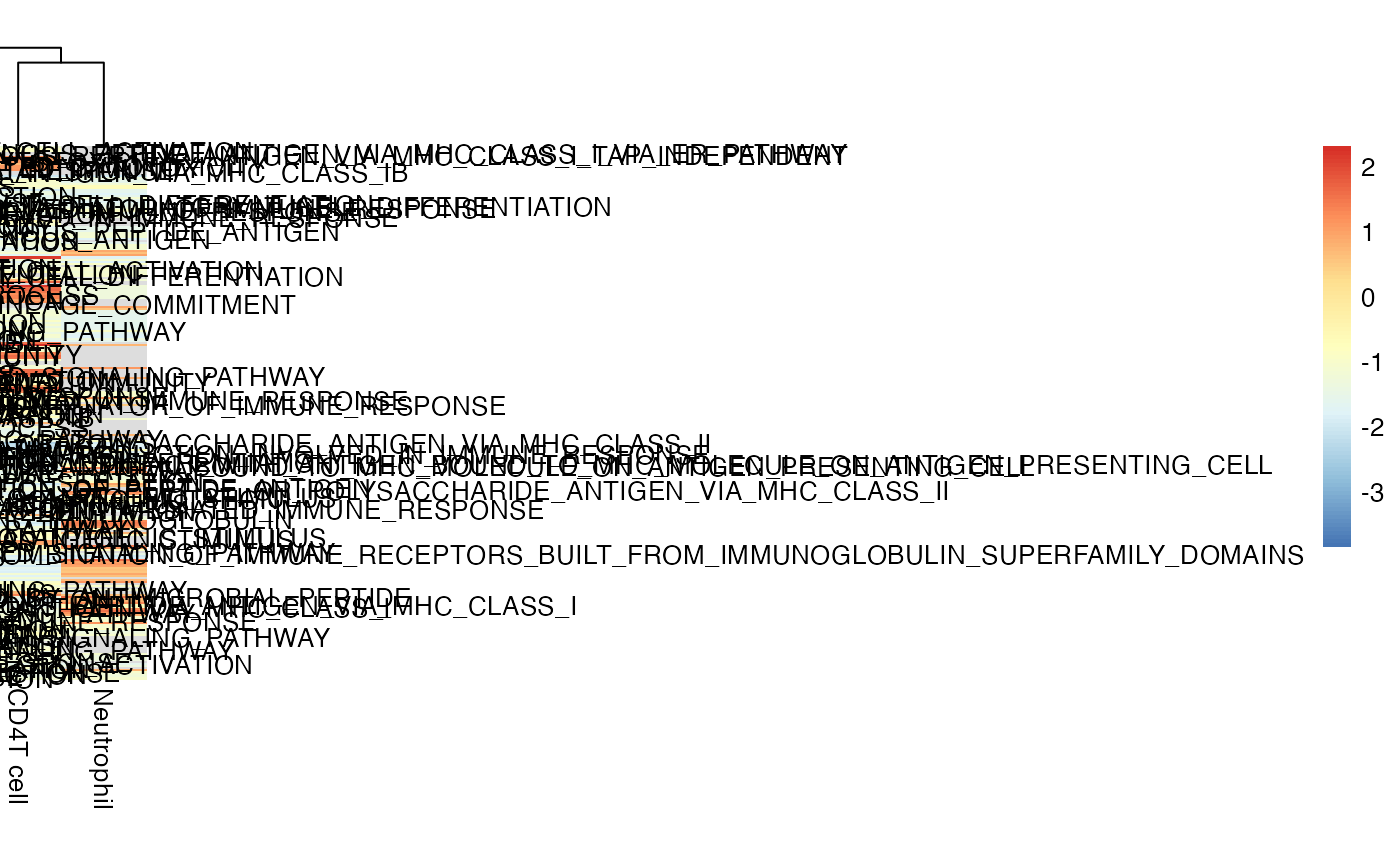
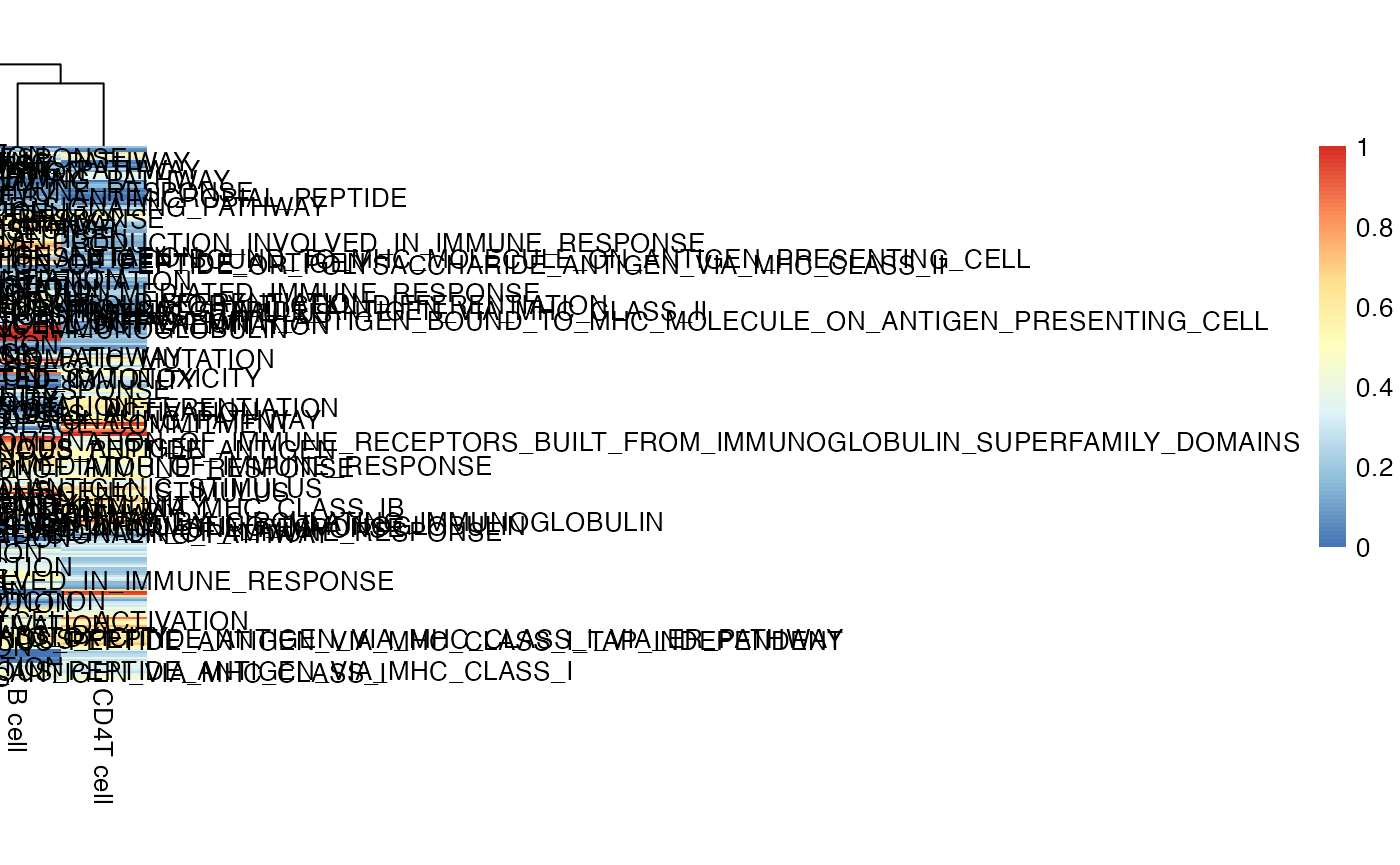
Built site for bowerbird: 0.0.2@786c6df

Changed region(s): [[0.0, 0.1561, 1.0, 0.9364], [0.0, 0.0312, 0.0614, 0.1249]]

diff --git a/articles/bowerbird_vignette.html b/articles/bowerbird_vignette.html
@@ -105,71 +105,190 @@
 <h2 class="hasAnchor">
 <a href="#quick-usage" class="anchor"></a>Quick Usage</h2>
 <p>Pathway analyis is tricky; often there’s too many pathways/terms to use and it’s not easy to distinguish how important every element is. <code>bowerbird</code> attempts to summarise your pathways of interests into potentially meaningful functional annotation modules which you can then take forward to pathway analyses, or the reverse situation where you have a set of pathways that were determined <i>a priori</i> to be significant and you wanted to find out how to interpret it. To do this, we compute a shortest nearest neighbor graph using the genes in the gene sets/pathways and learn a representative summary term from the name of the gene sets that cluster together.</p>
-<pre><code>#&gt; Loading required namespace: S4Vectors
-#&gt; Loading required namespace: FNN
-#&gt; Loading required namespace: ggraph
-#&gt; Downloading udpipe model from https://raw.githubusercontent.com/jwijffels/udpipe.models.ud.2.5/master/inst/udpipe-ud-2.5-191206/english-ewt-ud-2.5-191206.udpipe to /var/folders/24/8k48jl6d249_n_qfxwsl6xvm0000gn/T//RtmpKCjwGc/english-ewt-ud-2.5-191206.udpipe
-#&gt;  - This model has been trained on version 2.5 of data from https://universaldependencies.org
-#&gt;  - The model is distributed under the CC-BY-SA-NC license: https://creativecommons.org/licenses/by-nc-sa/4.0
-#&gt;  - Visit https://github.com/jwijffels/udpipe.models.ud.2.5 for model license details.
-#&gt;  - For a list of all models and their licenses (most models you can download with this package have either a CC-BY-SA or a CC-BY-SA-NC license) read the documentation at ?udpipe_download_model. For building your own models: visit the documentation by typing vignette('udpipe-train', package = 'udpipe')
-#&gt; Downloading finished, model stored at '/var/folders/24/8k48jl6d249_n_qfxwsl6xvm0000gn/T//RtmpKCjwGc/english-ewt-ud-2.5-191206.udpipe'
-#&gt; BOWER class
-#&gt; number of genesets:  50 
-#&gt; genesets kNN Graph: 
-#&gt; IGRAPH cc22994 UNW- 50 124 -- 
-#&gt; + attr: name (v/c), cluster (v/n), geneset_size (v/n), terms (v/c),
-#&gt; | labels (v/c), weight (e/n)
-#&gt; + edges from cc22994 (vertex names):
-#&gt; [1] HALLMARK_TNFA_SIGNALING_VIA_NFKB--HALLMARK_HYPOXIA                
-#&gt; [2] HALLMARK_TNFA_SIGNALING_VIA_NFKB--HALLMARK_TGF_BETA_SIGNALING     
-#&gt; [3] HALLMARK_TNFA_SIGNALING_VIA_NFKB--HALLMARK_IL6_JAK_STAT3_SIGNALING
-#&gt; [4] HALLMARK_TNFA_SIGNALING_VIA_NFKB--HALLMARK_APOPTOSIS              
-#&gt; [5] HALLMARK_TNFA_SIGNALING_VIA_NFKB--HALLMARK_MYOGENESIS             
-#&gt; [6] HALLMARK_TNFA_SIGNALING_VIA_NFKB--HALLMARK_COMPLEMENT             
-#&gt; + ... omitted several edges
-#&gt; number of geneset clusters:  9 
-#&gt; Core genes:
-#&gt;  First six genes shown
-#&gt;   XENOBIOTIC METABOLISM : LIFR DNAJB9 CD36 ACOX1 IDH1 ECH1 ...
-#&gt;   E2F TARGETS : SAC3D1 KIF11 KIF23 RACGAP1 NUMA1 KIF2C ...
-#&gt;   ESTROGEN RESPONSE EARLY : JAG1 CTNNB1 GNAI1 FDFT1 DHCR7 FASN ...
-#&gt;   APOPTOSIS : SPTAN1 CDKN1A GSN GPX3 CLU GADD45B ...
-#&gt;   INTERFERON ALPHA RESPONSE : MX1 ISG15 IFIT3 IFI44 IFI35 IRF7 ...
-#&gt;   HEDGEHOG SIGNALING : VEGFA VLDLR MYH9 ERO1A DDIT4 STC2 ...
-#&gt;   IL2 STAT5 SIGNALING : JUNB PPP1R15A SERPINE1 ID2 IFNGR2 PMEPA1 ...
-#&gt;   APICAL JUNCTION : EGFR ADAM10 CLTC AP2M1 ARF1 MAPK1 ...
-#&gt;   EPITHELIAL MESENCHYMAL TRANSITION : FBN1 FN1 SERPINE1 SPARC MMP2 THBS1 ...</code></pre>
+<div class="sourceCode" id="cb2"><pre class="downlit sourceCode r">
+<code class="sourceCode R"><span class="kw"><a href="https://rdrr.io/r/base/library.html">library</a></span><span class="op">(</span><span class="va">bowerbird</span><span class="op">)</span>
+<span class="co"># download from msigdb website</span>
+<span class="va">gmt_file</span> <span class="op">&lt;-</span> <span class="fu"><a href="https://rdrr.io/r/base/system.file.html">system.file</a></span><span class="op">(</span><span class="st">"extdata"</span>, <span class="st">"h.all.v7.4.symbols.gmt"</span>, package <span class="op">=</span> <span class="st">"bowerbird"</span><span class="op">)</span>
+<span class="va">bwr</span> <span class="op">&lt;-</span> <span class="fu">bower</span><span class="op">(</span><span class="va">gmt_file</span><span class="op">)</span> <span class="co"># this performs a read_geneset step internally, which accepts .gmt, .gmx, .csv, .tsv, .txt, or R objects as list or data.frame format.</span>
+<span class="co">#&gt; Loading required namespace: S4Vectors</span>
+<span class="va">bwr</span> <span class="op">&lt;-</span> <span class="fu"><a href="../reference/snn_graph.html">snn_graph</a></span><span class="op">(</span><span class="va">bwr</span><span class="op">)</span>
+<span class="co">#&gt; Loading required namespace: FNN</span>
+<span class="va">bwr</span> <span class="op">&lt;-</span> <span class="fu"><a href="../reference/find_clusters.html">find_clusters</a></span><span class="op">(</span><span class="va">bwr</span><span class="op">)</span>
+<span class="co">#&gt; Loading required namespace: ggraph</span>
+<span class="va">bwr</span> <span class="op">&lt;-</span> <span class="fu"><a href="../reference/summarize_clusters.html">summarize_clusters</a></span><span class="op">(</span><span class="va">bwr</span><span class="op">)</span>
+<span class="co">#&gt; Downloading udpipe model from https://raw.githubusercontent.com/jwijffels/udpipe.models.ud.2.5/master/inst/udpipe-ud-2.5-191206/english-ewt-ud-2.5-191206.udpipe to /var/folders/24/8k48jl6d249_n_qfxwsl6xvm0000gn/T//RtmpSF7iOg/english-ewt-ud-2.5-191206.udpipe</span>
+<span class="co">#&gt;  - This model has been trained on version 2.5 of data from https://universaldependencies.org</span>
+<span class="co">#&gt;  - The model is distributed under the CC-BY-SA-NC license: https://creativecommons.org/licenses/by-nc-sa/4.0</span>
+<span class="co">#&gt;  - Visit https://github.com/jwijffels/udpipe.models.ud.2.5 for model license details.</span>
+<span class="co">#&gt;  - For a list of all models and their licenses (most models you can download with this package have either a CC-BY-SA or a CC-BY-SA-NC license) read the documentation at ?udpipe_download_model. For building your own models: visit the documentation by typing vignette('udpipe-train', package = 'udpipe')</span>
+<span class="co">#&gt; Downloading finished, model stored at '/var/folders/24/8k48jl6d249_n_qfxwsl6xvm0000gn/T//RtmpSF7iOg/english-ewt-ud-2.5-191206.udpipe'</span>
+<span class="va">bwr</span>
+<span class="co">#&gt; BOWER class</span>
+<span class="co">#&gt; number of genesets:  50 </span>
+<span class="co">#&gt; genesets kNN Graph: </span>
+<span class="co">#&gt; IGRAPH c97b968 UNW- 50 124 -- </span>
+<span class="co">#&gt; + attr: name (v/c), cluster (v/n), geneset_size (v/n), terms (v/c),</span>
+<span class="co">#&gt; | labels (v/c), weight (e/n)</span>
+<span class="co">#&gt; + edges from c97b968 (vertex names):</span>
+<span class="co">#&gt; [1] HALLMARK_TNFA_SIGNALING_VIA_NFKB--HALLMARK_HYPOXIA                </span>
+<span class="co">#&gt; [2] HALLMARK_TNFA_SIGNALING_VIA_NFKB--HALLMARK_TGF_BETA_SIGNALING     </span>
+<span class="co">#&gt; [3] HALLMARK_TNFA_SIGNALING_VIA_NFKB--HALLMARK_IL6_JAK_STAT3_SIGNALING</span>
+<span class="co">#&gt; [4] HALLMARK_TNFA_SIGNALING_VIA_NFKB--HALLMARK_APOPTOSIS              </span>
+<span class="co">#&gt; [5] HALLMARK_TNFA_SIGNALING_VIA_NFKB--HALLMARK_MYOGENESIS             </span>
+<span class="co">#&gt; [6] HALLMARK_TNFA_SIGNALING_VIA_NFKB--HALLMARK_COMPLEMENT             </span>
+<span class="co">#&gt; + ... omitted several edges</span>
+<span class="co">#&gt; number of geneset clusters:  9 </span>
+<span class="co">#&gt; Core genes:</span>
+<span class="co">#&gt;  First six genes shown</span>
+<span class="co">#&gt;   XENOBIOTIC METABOLISM : LIFR DNAJB9 CD36 ACOX1 IDH1 ECH1 ...</span>
+<span class="co">#&gt;   E2F TARGETS : SAC3D1 KIF11 KIF23 RACGAP1 NUMA1 KIF2C ...</span>
+<span class="co">#&gt;   ESTROGEN RESPONSE EARLY : JAG1 CTNNB1 GNAI1 FDFT1 DHCR7 FASN ...</span>
+<span class="co">#&gt;   INTERFERON ALPHA RESPONSE : MX1 ISG15 IFIT3 IFI44 IFI35 IRF7 ...</span>
+<span class="co">#&gt;   HEDGEHOG SIGNALING : VEGFA VLDLR MYH9 ERO1A DDIT4 STC2 ...</span>
+<span class="co">#&gt;   IL2 STAT5 SIGNALING : JUNB PPP1R15A SERPINE1 ID2 IFNGR2 PMEPA1 ...</span>
+<span class="co">#&gt;   APICAL JUNCTION : EGFR ADAM10 CLTC AP2M1 ARF1 MAPK1 ...</span>
+<span class="co">#&gt;   APOPTOSIS : SPTAN1 CDKN1A GSN GPX3 CLU GADD45B ...</span>
+<span class="co">#&gt;   P53 PATHWAY : BTG2 TAP1 CDKN2B ATF3 BTG1 RRAD ...</span></code></pre></div>
 </div>
 <div id="examples-of-different-ways-of-loading-in-genesets" class="section level2">
 <h2 class="hasAnchor">
 <a href="#examples-of-different-ways-of-loading-in-genesets" class="anchor"></a>Examples of different ways of loading in genesets</h2>
 <p>Example #1 Doing some manual editing of a predefined geneset.</p>
-<pre><code>#&gt; Downloading udpipe model from https://raw.githubusercontent.com/jwijffels/udpipe.models.ud.2.5/master/inst/udpipe-ud-2.5-191206/english-ewt-ud-2.5-191206.udpipe to /var/folders/24/8k48jl6d249_n_qfxwsl6xvm0000gn/T//RtmpKCjwGc/english-ewt-ud-2.5-191206.udpipe
-#&gt;  - This model has been trained on version 2.5 of data from https://universaldependencies.org
-#&gt;  - The model is distributed under the CC-BY-SA-NC license: https://creativecommons.org/licenses/by-nc-sa/4.0
-#&gt;  - Visit https://github.com/jwijffels/udpipe.models.ud.2.5 for model license details.
-#&gt;  - For a list of all models and their licenses (most models you can download with this package have either a CC-BY-SA or a CC-BY-SA-NC license) read the documentation at ?udpipe_download_model. For building your own models: visit the documentation by typing vignette('udpipe-train', package = 'udpipe')
-#&gt; Downloading finished, model stored at '/var/folders/24/8k48jl6d249_n_qfxwsl6xvm0000gn/T//RtmpKCjwGc/english-ewt-ud-2.5-191206.udpipe'</code></pre>
+<div class="sourceCode" id="cb3"><pre class="downlit sourceCode r">
+<code class="sourceCode R"><span class="kw"><a href="https://rdrr.io/r/base/library.html">library</a></span><span class="op">(</span><span class="va">bowerbird</span><span class="op">)</span>
+<span class="co"># download from msigdb website</span>
+<span class="va">file</span> <span class="op">&lt;-</span> <span class="fu"><a href="https://rdrr.io/r/base/system.file.html">system.file</a></span><span class="op">(</span><span class="st">"extdata"</span>, <span class="st">"c5.go.bp.v7.4.symbols.gmt"</span>, package <span class="op">=</span> <span class="st">"bowerbird"</span><span class="op">)</span>
+<span class="co"># manualy read in to do some fine adjustments/filtering</span>
+<span class="va">geneset</span> <span class="op">&lt;-</span> <span class="fu"><a href="../reference/read_geneset.html">read_geneset</a></span><span class="op">(</span><span class="va">file</span><span class="op">)</span> <span class="co"># reads in gene file manually</span>
+<span class="co"># do a bit of manual filtering</span>
+<span class="va">geneset</span> <span class="op">&lt;-</span> <span class="va">geneset</span><span class="op">[</span><span class="fu"><a href="https://rdrr.io/r/base/grep.html">grep</a></span><span class="op">(</span><span class="st">'B_CELL|T_CELL|NATURAL_KILLER|ANTIBODY|ANTIGEN|LYMPHOCYTE|IMMUNE|INTERFERON|TOLL|INNATE|ADAPTIVE'</span>, <span class="fu"><a href="https://rdrr.io/r/base/names.html">names</a></span><span class="op">(</span><span class="va">geneset</span><span class="op">)</span><span class="op">)</span><span class="op">]</span>
+<span class="va">geneset</span> <span class="op">&lt;-</span> <span class="va">geneset</span><span class="op">[</span><span class="op">!</span><span class="fu"><a href="https://rdrr.io/r/base/grep.html">grepl</a></span><span class="op">(</span><span class="st">'TROPHOBLAST_CELL|FAT_CELL|ENT_CELL'</span>, <span class="fu"><a href="https://rdrr.io/r/base/names.html">names</a></span><span class="op">(</span><span class="va">geneset</span><span class="op">)</span><span class="op">)</span><span class="op">]</span>
+
+<span class="va">bwr</span> <span class="op">&lt;-</span> <span class="fu">bower</span><span class="op">(</span><span class="va">geneset</span><span class="op">)</span>
+<span class="va">bwr</span> <span class="op">&lt;-</span> <span class="fu"><a href="../reference/snn_graph.html">snn_graph</a></span><span class="op">(</span><span class="va">bwr</span><span class="op">)</span>
+<span class="va">bwr</span> <span class="op">&lt;-</span> <span class="fu"><a href="../reference/find_clusters.html">find_clusters</a></span><span class="op">(</span><span class="va">bwr</span><span class="op">)</span>
+<span class="va">bwr</span> <span class="op">&lt;-</span> <span class="fu"><a href="../reference/summarize_clusters.html">summarize_clusters</a></span><span class="op">(</span><span class="va">bwr</span><span class="op">)</span>
+<span class="co">#&gt; Downloading udpipe model from https://raw.githubusercontent.com/jwijffels/udpipe.models.ud.2.5/master/inst/udpipe-ud-2.5-191206/english-ewt-ud-2.5-191206.udpipe to /var/folders/24/8k48jl6d249_n_qfxwsl6xvm0000gn/T//RtmpSF7iOg/english-ewt-ud-2.5-191206.udpipe</span>
+<span class="co">#&gt;  - This model has been trained on version 2.5 of data from https://universaldependencies.org</span>
+<span class="co">#&gt;  - The model is distributed under the CC-BY-SA-NC license: https://creativecommons.org/licenses/by-nc-sa/4.0</span>
+<span class="co">#&gt;  - Visit https://github.com/jwijffels/udpipe.models.ud.2.5 for model license details.</span>
+<span class="co">#&gt;  - For a list of all models and their licenses (most models you can download with this package have either a CC-BY-SA or a CC-BY-SA-NC license) read the documentation at ?udpipe_download_model. For building your own models: visit the documentation by typing vignette('udpipe-train', package = 'udpipe')</span>
+<span class="co">#&gt; Downloading finished, model stored at '/var/folders/24/8k48jl6d249_n_qfxwsl6xvm0000gn/T//RtmpSF7iOg/english-ewt-ud-2.5-191206.udpipe'</span></code></pre></div>
 <p>Example #2 Extracting from <code>msigdbr</code>.</p>
-<pre><code>#&gt; Downloading udpipe model from https://raw.githubusercontent.com/jwijffels/udpipe.models.ud.2.5/master/inst/udpipe-ud-2.5-191206/english-ewt-ud-2.5-191206.udpipe to /var/folders/24/8k48jl6d249_n_qfxwsl6xvm0000gn/T//RtmpKCjwGc/english-ewt-ud-2.5-191206.udpipe
-#&gt;  - This model has been trained on version 2.5 of data from https://universaldependencies.org
-#&gt;  - The model is distributed under the CC-BY-SA-NC license: https://creativecommons.org/licenses/by-nc-sa/4.0
-#&gt;  - Visit https://github.com/jwijffels/udpipe.models.ud.2.5 for model license details.
-#&gt;  - For a list of all models and their licenses (most models you can download with this package have either a CC-BY-SA or a CC-BY-SA-NC license) read the documentation at ?udpipe_download_model. For building your own models: visit the documentation by typing vignette('udpipe-train', package = 'udpipe')
-#&gt; Downloading finished, model stored at '/var/folders/24/8k48jl6d249_n_qfxwsl6xvm0000gn/T//RtmpKCjwGc/english-ewt-ud-2.5-191206.udpipe'</code></pre>
+<div class="sourceCode" id="cb4"><pre class="downlit sourceCode r">
+<code class="sourceCode R"><span class="kw"><a href="https://rdrr.io/r/base/library.html">library</a></span><span class="op">(</span><span class="va">bowerbird</span><span class="op">)</span>
+<span class="kw"><a href="https://rdrr.io/r/base/library.html">library</a></span><span class="op">(</span><span class="va"><a href="https://igordot.github.io/msigdbr/">msigdbr</a></span><span class="op">)</span>
+<span class="va">GO</span> <span class="op">&lt;-</span> <span class="fu"><a href="https://rdrr.io/r/base/data.frame.html">data.frame</a></span><span class="op">(</span><span class="fu">msigdbr</span><span class="fu">::</span><span class="fu"><a href="https://igordot.github.io/msigdbr/reference/msigdbr.html">msigdbr</a></span><span class="op">(</span>category <span class="op">=</span> <span class="st">"C5"</span>, subcategory <span class="op">=</span> <span class="st">"GO:BP"</span><span class="op">)</span><span class="op">)</span>
+<span class="va">genesets</span> <span class="op">&lt;-</span> <span class="va">GO</span><span class="op">[</span><span class="fu"><a href="https://rdrr.io/r/base/grep.html">grep</a></span><span class="op">(</span><span class="st">'B_CELL|T_CELL|NATURAL_KILLER|ANTIBODY|ANTIGEN|LYMPHOCYTE|IMMUNE|INTERFERON|TOLL|INNATE|ADAPTIVE'</span>, <span class="va">GO</span><span class="op">$</span><span class="va">gs_name</span><span class="op">)</span>, <span class="op">]</span>
+<span class="va">genesets</span> <span class="op">&lt;-</span> <span class="va">genesets</span><span class="op">[</span><span class="op">!</span><span class="fu"><a href="https://rdrr.io/r/base/grep.html">grepl</a></span><span class="op">(</span><span class="st">'TROPHOBLAST_CELL|FAT_CELL|ENT_CELL'</span>, <span class="va">genesets</span><span class="op">$</span><span class="va">gs_name</span><span class="op">)</span>, <span class="op">]</span>
+
+<span class="co"># convert to list</span>
+<span class="va">gs_list</span> <span class="op">&lt;-</span> <span class="fu"><a href="https://rdrr.io/r/base/lapply.html">lapply</a></span><span class="op">(</span><span class="fu"><a href="https://rdrr.io/r/base/unique.html">unique</a></span><span class="op">(</span><span class="va">genesets</span><span class="op">$</span><span class="va">gs_name</span><span class="op">)</span>, <span class="kw">function</span><span class="op">(</span><span class="va">x</span><span class="op">)</span> <span class="va">genesets</span><span class="op">[</span><span class="va">genesets</span><span class="op">$</span><span class="va">gs_name</span> <span class="op">%in%</span> <span class="va">x</span>, <span class="st">"gene_symbol"</span><span class="op">]</span><span class="op">)</span>
+<span class="fu"><a href="https://rdrr.io/r/base/names.html">names</a></span><span class="op">(</span><span class="va">gs_list</span><span class="op">)</span> <span class="op">&lt;-</span> <span class="fu"><a href="https://rdrr.io/r/base/unique.html">unique</a></span><span class="op">(</span><span class="va">genesets</span><span class="op">$</span><span class="va">gs_name</span><span class="op">)</span>
+
+<span class="va">bwr</span> <span class="op">&lt;-</span> <span class="fu">bower</span><span class="op">(</span><span class="va">gs_list</span><span class="op">)</span>
+<span class="va">bwr</span> <span class="op">&lt;-</span> <span class="fu"><a href="../reference/snn_graph.html">snn_graph</a></span><span class="op">(</span><span class="va">bwr</span><span class="op">)</span>
+<span class="va">bwr</span> <span class="op">&lt;-</span> <span class="fu"><a href="../reference/find_clusters.html">find_clusters</a></span><span class="op">(</span><span class="va">bwr</span><span class="op">)</span>
+<span class="va">bwr</span> <span class="op">&lt;-</span> <span class="fu"><a href="../reference/summarize_clusters.html">summarize_clusters</a></span><span class="op">(</span><span class="va">bwr</span><span class="op">)</span>
+<span class="co">#&gt; Downloading udpipe model from https://raw.githubusercontent.com/jwijffels/udpipe.models.ud.2.5/master/inst/udpipe-ud-2.5-191206/english-ewt-ud-2.5-191206.udpipe to /var/folders/24/8k48jl6d249_n_qfxwsl6xvm0000gn/T//RtmpSF7iOg/english-ewt-ud-2.5-191206.udpipe</span>
+<span class="co">#&gt;  - This model has been trained on version 2.5 of data from https://universaldependencies.org</span>
+<span class="co">#&gt;  - The model is distributed under the CC-BY-SA-NC license: https://creativecommons.org/licenses/by-nc-sa/4.0</span>
+<span class="co">#&gt;  - Visit https://github.com/jwijffels/udpipe.models.ud.2.5 for model license details.</span>
+<span class="co">#&gt;  - For a list of all models and their licenses (most models you can download with this package have either a CC-BY-SA or a CC-BY-SA-NC license) read the documentation at ?udpipe_download_model. For building your own models: visit the documentation by typing vignette('udpipe-train', package = 'udpipe')</span>
+<span class="co">#&gt; Downloading finished, model stored at '/var/folders/24/8k48jl6d249_n_qfxwsl6xvm0000gn/T//RtmpSF7iOg/english-ewt-ud-2.5-191206.udpipe'</span></code></pre></div>
 </div>
 <div id="geneset-enrichment-analysis" class="section level2">
 <h2 class="hasAnchor">
 <a href="#geneset-enrichment-analysis" class="anchor"></a>geneset enrichment analysis</h2>
-<p>To do this, we would need either a single-cell object (<code>SingleCellExperiment</code> or <code>Seurat</code>), or a list containing differential gene testing results <img src="bowerbird_vignette_files/figure-html/unnamed-chunk-5-1.png" width="700"></p>
-<p>as a heatmap <img src="bowerbird_vignette_files/figure-html/unnamed-chunk-6-1.png" width="700"></p>
+<p>To do this, we would need either a single-cell object (<code>SingleCellExperiment</code> or <code>Seurat</code>), or a list containing differential gene testing results</p>
+<div class="sourceCode" id="cb5"><pre class="downlit sourceCode r">
+<code class="sourceCode R"><span class="co"># load a dummy dataset</span>
+<span class="kw"><a href="https://rdrr.io/r/base/library.html">library</a></span><span class="op">(</span><span class="va">ktplots</span><span class="op">)</span>
+<span class="fu"><a href="https://rdrr.io/r/utils/data.html">data</a></span><span class="op">(</span><span class="va">kidneyimmune</span><span class="op">)</span>
+
+<span class="co"># with single-cell methods:</span>
+
+<span class="co">## AUCell</span>
+<span class="va">bwr</span> <span class="op">&lt;-</span> <span class="fu"><a href="../reference/enrich_genesets.html">enrich_genesets</a></span><span class="op">(</span><span class="va">kidneyimmune</span>, <span class="va">bwr</span>, groupby <span class="op">=</span> <span class="st">'celltype'</span>, mode <span class="op">=</span> <span class="st">'AUCell'</span><span class="op">)</span>
+
+<span class="co">## Seurat::AddModuleScore</span>
+<span class="va">bwr</span> <span class="op">&lt;-</span> <span class="fu"><a href="../reference/enrich_genesets.html">enrich_genesets</a></span><span class="op">(</span><span class="va">kidneyimmune</span>, <span class="va">bwr</span>, groupby <span class="op">=</span> <span class="st">'celltype'</span>, mode <span class="op">=</span> <span class="st">'Seurat'</span><span class="op">)</span>
+
+<span class="co">## scanpy.tl.score_genes</span>
+<span class="va">bwr</span> <span class="op">&lt;-</span> <span class="fu"><a href="../reference/enrich_genesets.html">enrich_genesets</a></span><span class="op">(</span><span class="va">kidneyimmune</span>, <span class="va">bwr</span>, groupby <span class="op">=</span> <span class="st">'celltype'</span>, mode <span class="op">=</span> <span class="st">'scanpy'</span><span class="op">)</span></code></pre></div>
+<div class="sourceCode" id="cb6"><pre class="downlit sourceCode r">
+<code class="sourceCode R">
+<span class="co"># plot</span>
+<span class="kw"><a href="https://rdrr.io/r/base/library.html">library</a></span><span class="op">(</span><span class="va"><a href="https://ggraph.data-imaginist.com">ggraph</a></span><span class="op">)</span>
+<span class="kw"><a href="https://rdrr.io/r/base/library.html">library</a></span><span class="op">(</span><span class="va"><a href="https://ggplot2.tidyverse.org">ggplot2</a></span><span class="op">)</span>
+<span class="va">plot_list</span> <span class="op">&lt;-</span> <span class="fu"><a href="https://rdrr.io/r/base/lapply.html">lapply</a></span><span class="op">(</span><span class="fu"><a href="https://rdrr.io/r/base/colnames.html">colnames</a></span><span class="op">(</span><span class="va">bwr</span><span class="op">@</span><span class="va">scores</span><span class="op">)</span>, <span class="kw">function</span><span class="op">(</span><span class="va">ds</span><span class="op">)</span><span class="op">{</span>
+  <span class="fu"><a href="https://rdrr.io/r/base/Random.html">set.seed</a></span><span class="op">(</span><span class="fl">100</span><span class="op">)</span>
+  <span class="fu">igraph</span><span class="fu">::</span><span class="fu"><a href="https://rdrr.io/pkg/igraph/man/V.html">V</a></span><span class="op">(</span><span class="va">bwr</span><span class="op">@</span><span class="va">graph</span><span class="op">)</span><span class="op">$</span><span class="va">score</span> <span class="op">&lt;-</span> <span class="va">bwr</span><span class="op">@</span><span class="va">scores</span><span class="op">[</span>, <span class="va">ds</span><span class="op">]</span>
+  <span class="va">g</span> <span class="op">&lt;-</span> <span class="fu"><a href="https://ggraph.data-imaginist.com/reference/ggraph.html">ggraph</a></span><span class="op">(</span><span class="va">bwr</span><span class="op">@</span><span class="va">graph</span>, <span class="st">'igraph'</span>, algorithm <span class="op">=</span> <span class="st">'fr'</span><span class="op">)</span> <span class="op">+</span> 
+    <span class="fu"><a href="https://ggraph.data-imaginist.com/reference/geom_edge_link.html">geom_edge_link</a></span><span class="op">(</span><span class="fu"><a href="https://ggplot2.tidyverse.org/reference/aes.html">aes</a></span><span class="op">(</span>width <span class="op">=</span> <span class="va">weight</span><span class="op">)</span>, alpha <span class="op">=</span> <span class="fl">.25</span><span class="op">)</span> <span class="op">+</span>
+    <span class="fu"><a href="https://ggraph.data-imaginist.com/reference/geom_node_point.html">geom_node_point</a></span><span class="op">(</span><span class="fu"><a href="https://ggplot2.tidyverse.org/reference/aes.html">aes</a></span><span class="op">(</span>color <span class="op">=</span> <span class="va">score</span>, size <span class="op">=</span> <span class="va">geneset_size</span><span class="op">)</span><span class="op">)</span> <span class="op">+</span> 
+    <span class="fu"><a href="https://ggplot2.tidyverse.org/reference/scale_size.html">scale_size_area</a></span><span class="op">(</span>max_size <span class="op">=</span> <span class="fl">3</span><span class="op">)</span> <span class="op">+</span>
+    <span class="fu"><a href="https://ggraph.data-imaginist.com/reference/geom_node_text.html">geom_node_text</a></span><span class="op">(</span><span class="fu"><a href="https://ggplot2.tidyverse.org/reference/aes.html">aes</a></span><span class="op">(</span>label <span class="op">=</span> <span class="va">labels</span><span class="op">)</span>, size <span class="op">=</span> <span class="fl">1</span><span class="op">)</span> <span class="op">+</span>
+    <span class="fu"><a href="https://ggplot2.tidyverse.org/reference/ggtheme.html">theme_bw</a></span><span class="op">(</span><span class="op">)</span> <span class="op">+</span>
+    <span class="fu"><a href="https://ggplot2.tidyverse.org/reference/ggtheme.html">theme_void</a></span><span class="op">(</span><span class="op">)</span> <span class="op">+</span>
+    <span class="fu"><a href="https://sjmgarnier.github.io/viridis/reference/scale_viridis.html">scale_color_viridis</a></span><span class="op">(</span><span class="op">)</span> <span class="op">+</span>
+    <span class="co"># scale_color_viridis(limits=c(0, 0.1), oob=scales::squish) +</span>
+    <span class="fu"><a href="https://ggraph.data-imaginist.com/reference/scale_edge_width.html">scale_edge_width</a></span><span class="op">(</span>range <span class="op">=</span> <span class="fu"><a href="https://rdrr.io/r/base/c.html">c</a></span><span class="op">(</span><span class="fl">0</span>, <span class="fl">1</span><span class="op">)</span><span class="op">)</span> <span class="op">+</span>
+    <span class="fu"><a href="https://ggplot2.tidyverse.org/reference/labs.html">ggtitle</a></span><span class="op">(</span><span class="va">ds</span><span class="op">)</span>
+<span class="op">}</span><span class="op">)</span>
+<span class="fu"><a href="https://rdrr.io/r/base/names.html">names</a></span><span class="op">(</span><span class="va">plot_list</span><span class="op">)</span> <span class="op">&lt;-</span> <span class="fu"><a href="https://rdrr.io/r/base/colnames.html">colnames</a></span><span class="op">(</span><span class="va">bwr</span><span class="op">@</span><span class="va">scores</span><span class="op">)</span>
+<span class="fu">cowplot</span><span class="fu">::</span><span class="fu"><a href="https://wilkelab.org/cowplot/reference/plot_grid.html">plot_grid</a></span><span class="op">(</span>plotlist <span class="op">=</span> <span class="va">plot_list</span><span class="op">)</span></code></pre></div>
+<p><img src="bowerbird_vignette_files/figure-html/unnamed-chunk-7-1.png" width="20" height="20"></p>
+<p>as a heatmap</p>
+<div class="sourceCode" id="cb7"><pre class="downlit sourceCode r">
+<code class="sourceCode R"><span class="fu">knitr</span><span class="fu">::</span><span class="va"><a href="https://rdrr.io/pkg/knitr/man/opts_chunk.html">opts_chunk</a></span><span class="op">$</span><span class="fu">set</span><span class="op">(</span>fig.width<span class="op">=</span><span class="fl">20</span>, fig.height<span class="op">=</span><span class="fl">20</span><span class="op">)</span> 
+<span class="fu">pheatmap</span><span class="fu">::</span><span class="fu"><a href="https://rdrr.io/pkg/pheatmap/man/pheatmap.html">pheatmap</a></span><span class="op">(</span><span class="va">bwr</span><span class="op">@</span><span class="va">scores</span><span class="op">)</span></code></pre></div>
+<p><img src="bowerbird_vignette_files/figure-html/unnamed-chunk-8-1.png" width="20" height="20"></p>
 </div>
 </div>
 <div id="with-fgsea-on-deg-tables-in-a-list" class="section level1">
 <h1 class="hasAnchor">
 <a href="#with-fgsea-on-deg-tables-in-a-list" class="anchor"></a>with fgsea on deg tables in a list</h1>
-<p><img src="bowerbird_vignette_files/figure-html/unnamed-chunk-7-1.png" width="700"> as a heatmap <img src="bowerbird_vignette_files/figure-html/unnamed-chunk-8-1.png" width="700"> ## Using core genes for enrichment same function as above, just specifying <code>core = TRUE</code>. <img src="bowerbird_vignette_files/figure-html/unnamed-chunk-9-1.png" width="700"> same for the gsea results. <img src="bowerbird_vignette_files/figure-html/unnamed-chunk-10-1.png" width="700"></p>
+<div class="sourceCode" id="cb8"><pre class="downlit sourceCode r">
+<code class="sourceCode R"><span class="va">degs</span> <span class="op">&lt;-</span> <span class="fu">Seurat</span><span class="fu">::</span><span class="fu"><a href="https://satijalab.org/seurat/reference/FindAllMarkers.html">FindAllMarkers</a></span><span class="op">(</span><span class="va">kidneyimmune</span><span class="op">)</span>
+<span class="va">degs</span> <span class="op">&lt;-</span> <span class="fu"><a href="https://rdrr.io/r/base/split.html">split</a></span><span class="op">(</span><span class="va">degs</span>, <span class="va">degs</span><span class="op">$</span><span class="va">cluster</span><span class="op">)</span> <span class="co"># so in practice, there should be one DEG table per comparison in a list.</span>
+<span class="va">bwr</span> <span class="op">&lt;-</span> <span class="fu"><a href="../reference/enrich_genesets.html">enrich_genesets</a></span><span class="op">(</span><span class="va">degs</span>, <span class="va">bwr</span>, gene_symbol <span class="op">=</span> <span class="st">'gene'</span>, logfoldchanges <span class="op">=</span> <span class="st">'avg_log2FC'</span>,  pvals <span class="op">=</span> <span class="st">'p_val'</span><span class="op">)</span>
+
+<span class="co"># plot</span>
+<span class="va">plot_list</span> <span class="op">&lt;-</span> <span class="fu"><a href="https://rdrr.io/r/base/lapply.html">lapply</a></span><span class="op">(</span><span class="fu"><a href="https://rdrr.io/r/base/colnames.html">colnames</a></span><span class="op">(</span><span class="va">bwr</span><span class="op">@</span><span class="va">scores</span><span class="op">$</span><span class="va">NES</span><span class="op">)</span>, <span class="kw">function</span><span class="op">(</span><span class="va">ds</span><span class="op">)</span><span class="op">{</span>
+  <span class="fu"><a href="https://rdrr.io/r/base/Random.html">set.seed</a></span><span class="op">(</span><span class="fl">100</span><span class="op">)</span>
+  <span class="va">NES</span> <span class="op">&lt;-</span> <span class="va">bwr</span><span class="op">@</span><span class="va">scores</span><span class="op">$</span><span class="va">NES</span><span class="op">[</span>, <span class="va">ds</span><span class="op">]</span>
+  <span class="va">padj</span> <span class="op">&lt;-</span> <span class="va">bwr</span><span class="op">@</span><span class="va">scores</span><span class="op">$</span><span class="va">padj</span><span class="op">[</span>, <span class="va">ds</span><span class="op">]</span>
+  <span class="va">padj</span><span class="op">[</span><span class="va">padj</span> <span class="op">&gt;=</span> <span class="fl">0.25</span><span class="op">]</span> <span class="op">&lt;-</span> <span class="cn">NA</span>
+  <span class="fu">igraph</span><span class="fu">::</span><span class="fu"><a href="https://rdrr.io/pkg/igraph/man/V.html">V</a></span><span class="op">(</span><span class="va">bwr</span><span class="op">@</span><span class="va">graph</span><span class="op">)</span><span class="op">$</span><span class="va">NES</span> <span class="op">&lt;-</span> <span class="va">NES</span>
+  <span class="fu">igraph</span><span class="fu">::</span><span class="fu"><a href="https://rdrr.io/pkg/igraph/man/V.html">V</a></span><span class="op">(</span><span class="va">bwr</span><span class="op">@</span><span class="va">graph</span><span class="op">)</span><span class="op">$</span><span class="va">padj</span> <span class="op">&lt;-</span> <span class="va">padj</span>
+  <span class="va">g</span> <span class="op">&lt;-</span> <span class="fu"><a href="https://ggraph.data-imaginist.com/reference/ggraph.html">ggraph</a></span><span class="op">(</span><span class="va">bwr</span><span class="op">@</span><span class="va">graph</span>, <span class="st">'igraph'</span>, algorithm <span class="op">=</span> <span class="st">'fr'</span><span class="op">)</span> <span class="op">+</span> 
+    <span class="fu"><a href="https://ggraph.data-imaginist.com/reference/geom_edge_link.html">geom_edge_link</a></span><span class="op">(</span><span class="fu"><a href="https://ggplot2.tidyverse.org/reference/aes.html">aes</a></span><span class="op">(</span>width <span class="op">=</span> <span class="va">weight</span><span class="op">)</span>, alpha <span class="op">=</span> <span class="fl">.25</span><span class="op">)</span> <span class="op">+</span>
+    <span class="fu"><a href="https://ggraph.data-imaginist.com/reference/geom_node_point.html">geom_node_point</a></span><span class="op">(</span><span class="fu"><a href="https://ggplot2.tidyverse.org/reference/aes.html">aes</a></span><span class="op">(</span>color <span class="op">=</span> <span class="va">padj</span>, size <span class="op">=</span> <span class="va">NES</span><span class="op">)</span><span class="op">)</span> <span class="op">+</span> 
+    <span class="fu"><a href="https://ggplot2.tidyverse.org/reference/scale_size.html">scale_size_area</a></span><span class="op">(</span>max_size <span class="op">=</span> <span class="fl">3</span><span class="op">)</span> <span class="op">+</span>
+    <span class="fu"><a href="https://ggraph.data-imaginist.com/reference/geom_node_text.html">geom_node_text</a></span><span class="op">(</span><span class="fu"><a href="https://ggplot2.tidyverse.org/reference/aes.html">aes</a></span><span class="op">(</span>label <span class="op">=</span> <span class="va">labels</span><span class="op">)</span>, size <span class="op">=</span> <span class="fl">1</span><span class="op">)</span> <span class="op">+</span>
+    <span class="fu"><a href="https://ggplot2.tidyverse.org/reference/ggtheme.html">theme_bw</a></span><span class="op">(</span><span class="op">)</span> <span class="op">+</span>
+    <span class="fu"><a href="https://ggplot2.tidyverse.org/reference/ggtheme.html">theme_void</a></span><span class="op">(</span><span class="op">)</span> <span class="op">+</span>
+    <span class="fu"><a href="https://sjmgarnier.github.io/viridis/reference/scale_viridis.html">scale_color_viridis</a></span><span class="op">(</span><span class="op">)</span> <span class="op">+</span>
+    <span class="co"># scale_color_viridis(limits=c(0, 0.1), oob=scales::squish) +</span>
+    <span class="fu"><a href="https://ggraph.data-imaginist.com/reference/scale_edge_width.html">scale_edge_width</a></span><span class="op">(</span>range <span class="op">=</span> <span class="fu"><a href="https://rdrr.io/r/base/c.html">c</a></span><span class="op">(</span><span class="fl">0</span>, <span class="fl">1</span><span class="op">)</span><span class="op">)</span> <span class="op">+</span>
+    <span class="fu"><a href="https://ggplot2.tidyverse.org/reference/labs.html">ggtitle</a></span><span class="op">(</span><span class="va">ds</span><span class="op">)</span> <span class="op">+</span> <span class="fu"><a href="https://ggplot2.tidyverse.org/reference/theme.html">theme</a></span><span class="op">(</span>legend.position <span class="op">=</span> <span class="st">'none'</span><span class="op">)</span>
+<span class="op">}</span><span class="op">)</span>
+<span class="fu"><a href="https://rdrr.io/r/base/names.html">names</a></span><span class="op">(</span><span class="va">plot_list</span><span class="op">)</span> <span class="op">&lt;-</span> <span class="fu"><a href="https://rdrr.io/r/base/colnames.html">colnames</a></span><span class="op">(</span><span class="va">bwr</span><span class="op">@</span><span class="va">scores</span><span class="op">$</span><span class="va">NES</span><span class="op">)</span>
+<span class="fu">cowplot</span><span class="fu">::</span><span class="fu"><a href="https://wilkelab.org/cowplot/reference/plot_grid.html">plot_grid</a></span><span class="op">(</span>plotlist <span class="op">=</span> <span class="va">plot_list</span><span class="op">)</span></code></pre></div>
+<p><img src="bowerbird_vignette_files/figure-html/unnamed-chunk-9-1.png" width="20" height="20"> as a heatmap</p>
+<div class="sourceCode" id="cb9"><pre class="downlit sourceCode r">
+<code class="sourceCode R"><span class="fu">pheatmap</span><span class="fu">::</span><span class="fu"><a href="https://rdrr.io/pkg/pheatmap/man/pheatmap.html">pheatmap</a></span><span class="op">(</span><span class="va">bwr</span><span class="op">@</span><span class="va">scores</span><span class="op">$</span><span class="va">NES</span><span class="op">)</span></code></pre></div>
+<p><img src="bowerbird_vignette_files/figure-html/unnamed-chunk-10-1.png" width="10" height="10"> ## Using core genes for enrichment same function as above, just specifying <code>core = TRUE</code>.</p>
+<div class="sourceCode" id="cb10"><pre class="downlit sourceCode r">
+<code class="sourceCode R"><span class="va">bwr</span> <span class="op">&lt;-</span> <span class="fu"><a href="../reference/enrich_genesets.html">enrich_genesets</a></span><span class="op">(</span><span class="va">kidneyimmune</span>, <span class="va">bwr</span>, core <span class="op">=</span> <span class="cn">TRUE</span>, groupby <span class="op">=</span> <span class="st">'celltype'</span><span class="op">)</span> <span class="co"># if mode is not specified, the default option is to use AUCell</span>
+<span class="co"># output can also be plotted via ggraph as above but i'm using heatmap for convenience.</span>
+<span class="fu">pheatmap</span><span class="fu">::</span><span class="fu"><a href="https://rdrr.io/pkg/pheatmap/man/pheatmap.html">pheatmap</a></span><span class="op">(</span><span class="va">bwr</span><span class="op">@</span><span class="va">scores</span><span class="op">)</span></code></pre></div>
+<p><img src="bowerbird_vignette_files/figure-html/unnamed-chunk-11-1.png" width="10" height="10"> same for the gsea results.</p>
+<div class="sourceCode" id="cb11"><pre class="downlit sourceCode r">
+<code class="sourceCode R"><span class="va">bwr</span> <span class="op">&lt;-</span> <span class="fu"><a href="../reference/enrich_genesets.html">enrich_genesets</a></span><span class="op">(</span><span class="va">degs</span>, <span class="va">bwr</span>, core <span class="op">=</span> <span class="cn">TRUE</span>, gene_symbol <span class="op">=</span> <span class="st">'gene'</span>, logfoldchanges <span class="op">=</span> <span class="st">'avg_log2FC'</span>,  pvals <span class="op">=</span> <span class="st">'p_val'</span><span class="op">)</span>
+<span class="fu">pheatmap</span><span class="fu">::</span><span class="fu"><a href="https://rdrr.io/pkg/pheatmap/man/pheatmap.html">pheatmap</a></span><span class="op">(</span><span class="va">bwr</span><span class="op">@</span><span class="va">scores</span><span class="op">$</span><span class="va">NES</span><span class="op">)</span></code></pre></div>
+<p><img src="bowerbird_vignette_files/figure-html/unnamed-chunk-12-1.png" width="10" height="10"></p>
 </div>
   </div>
 

diff --git a/index.html b/index.html
@@ -120,6 +120,11 @@
 <span class="co"># + ... omitted several edges</span>
 <span class="co"># number of geneset clusters:  10</span></code></pre></div>
 </div>
+<div id="vignette" class="section level2">
+<h2 class="hasAnchor">
+<a href="#vignette" class="anchor"></a>Vignette</h2>
+<p>A vignette is available at <a href="https://clatworthylab.github.io/bowerbird/articles/bowerbird_vignette.html" class="uri">https://clatworthylab.github.io/bowerbird/articles/bowerbird_vignette.html</a></p>
+</div>
 <div id="examples-of-different-ways-of-loading-in-genesets" class="section level2">
 <h2 class="hasAnchor">
 <a href="#examples-of-different-ways-of-loading-in-genesets" class="anchor"></a>Examples of different ways of loading in genesets</h2>
